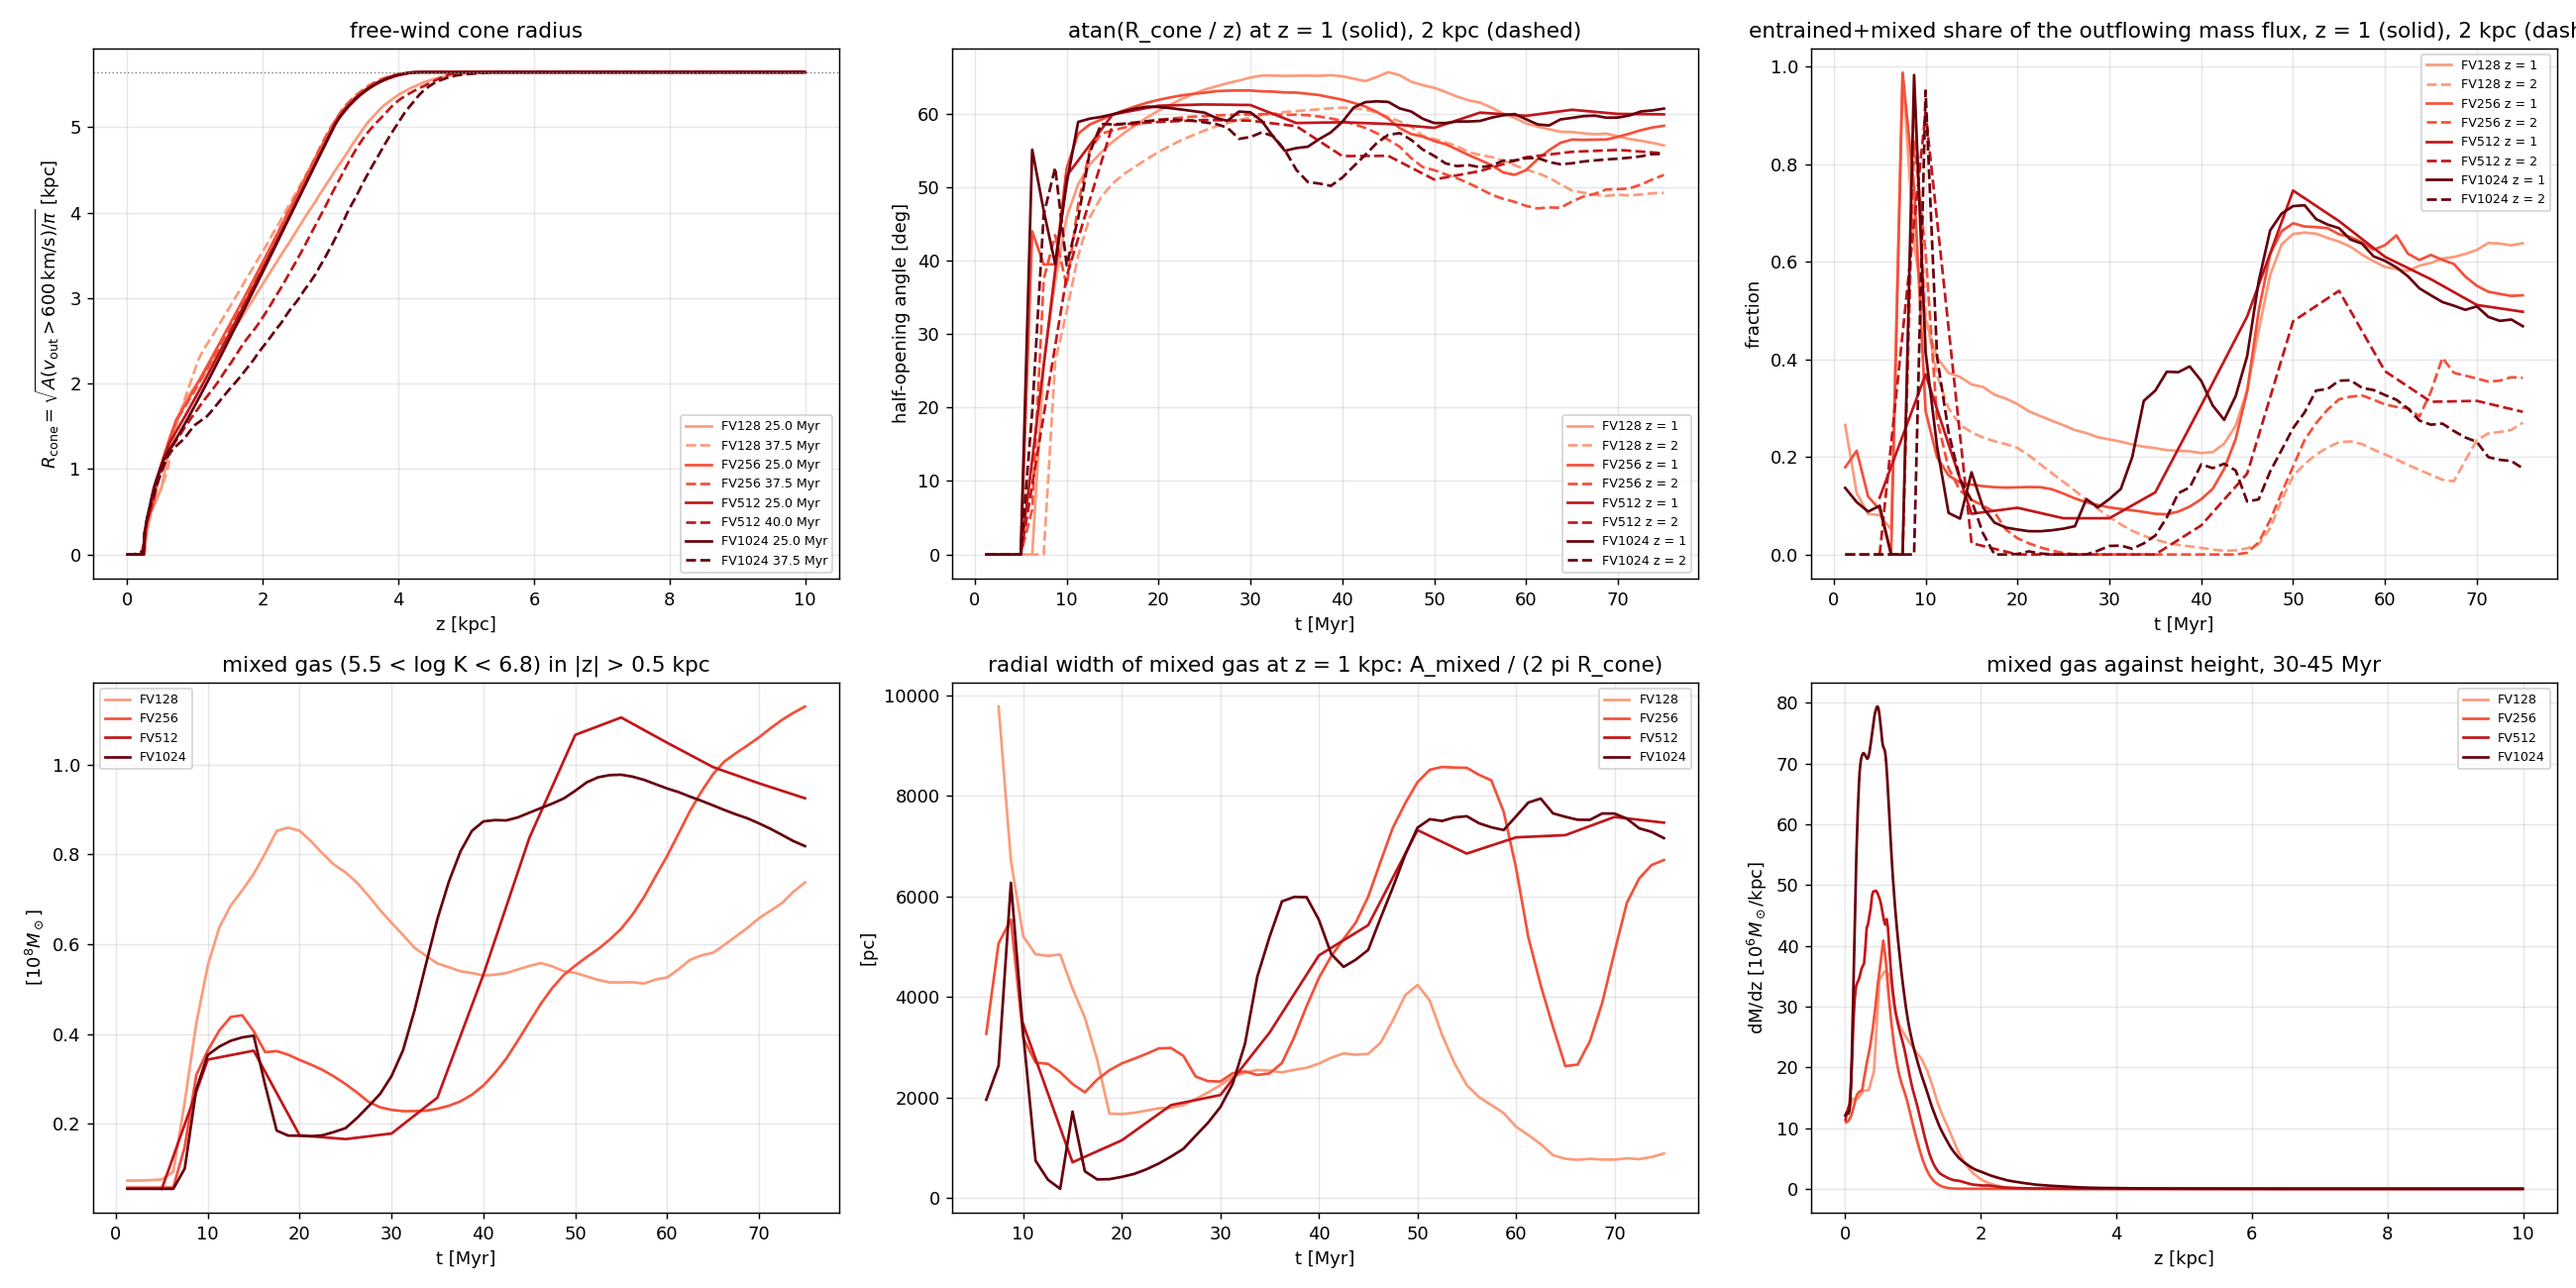
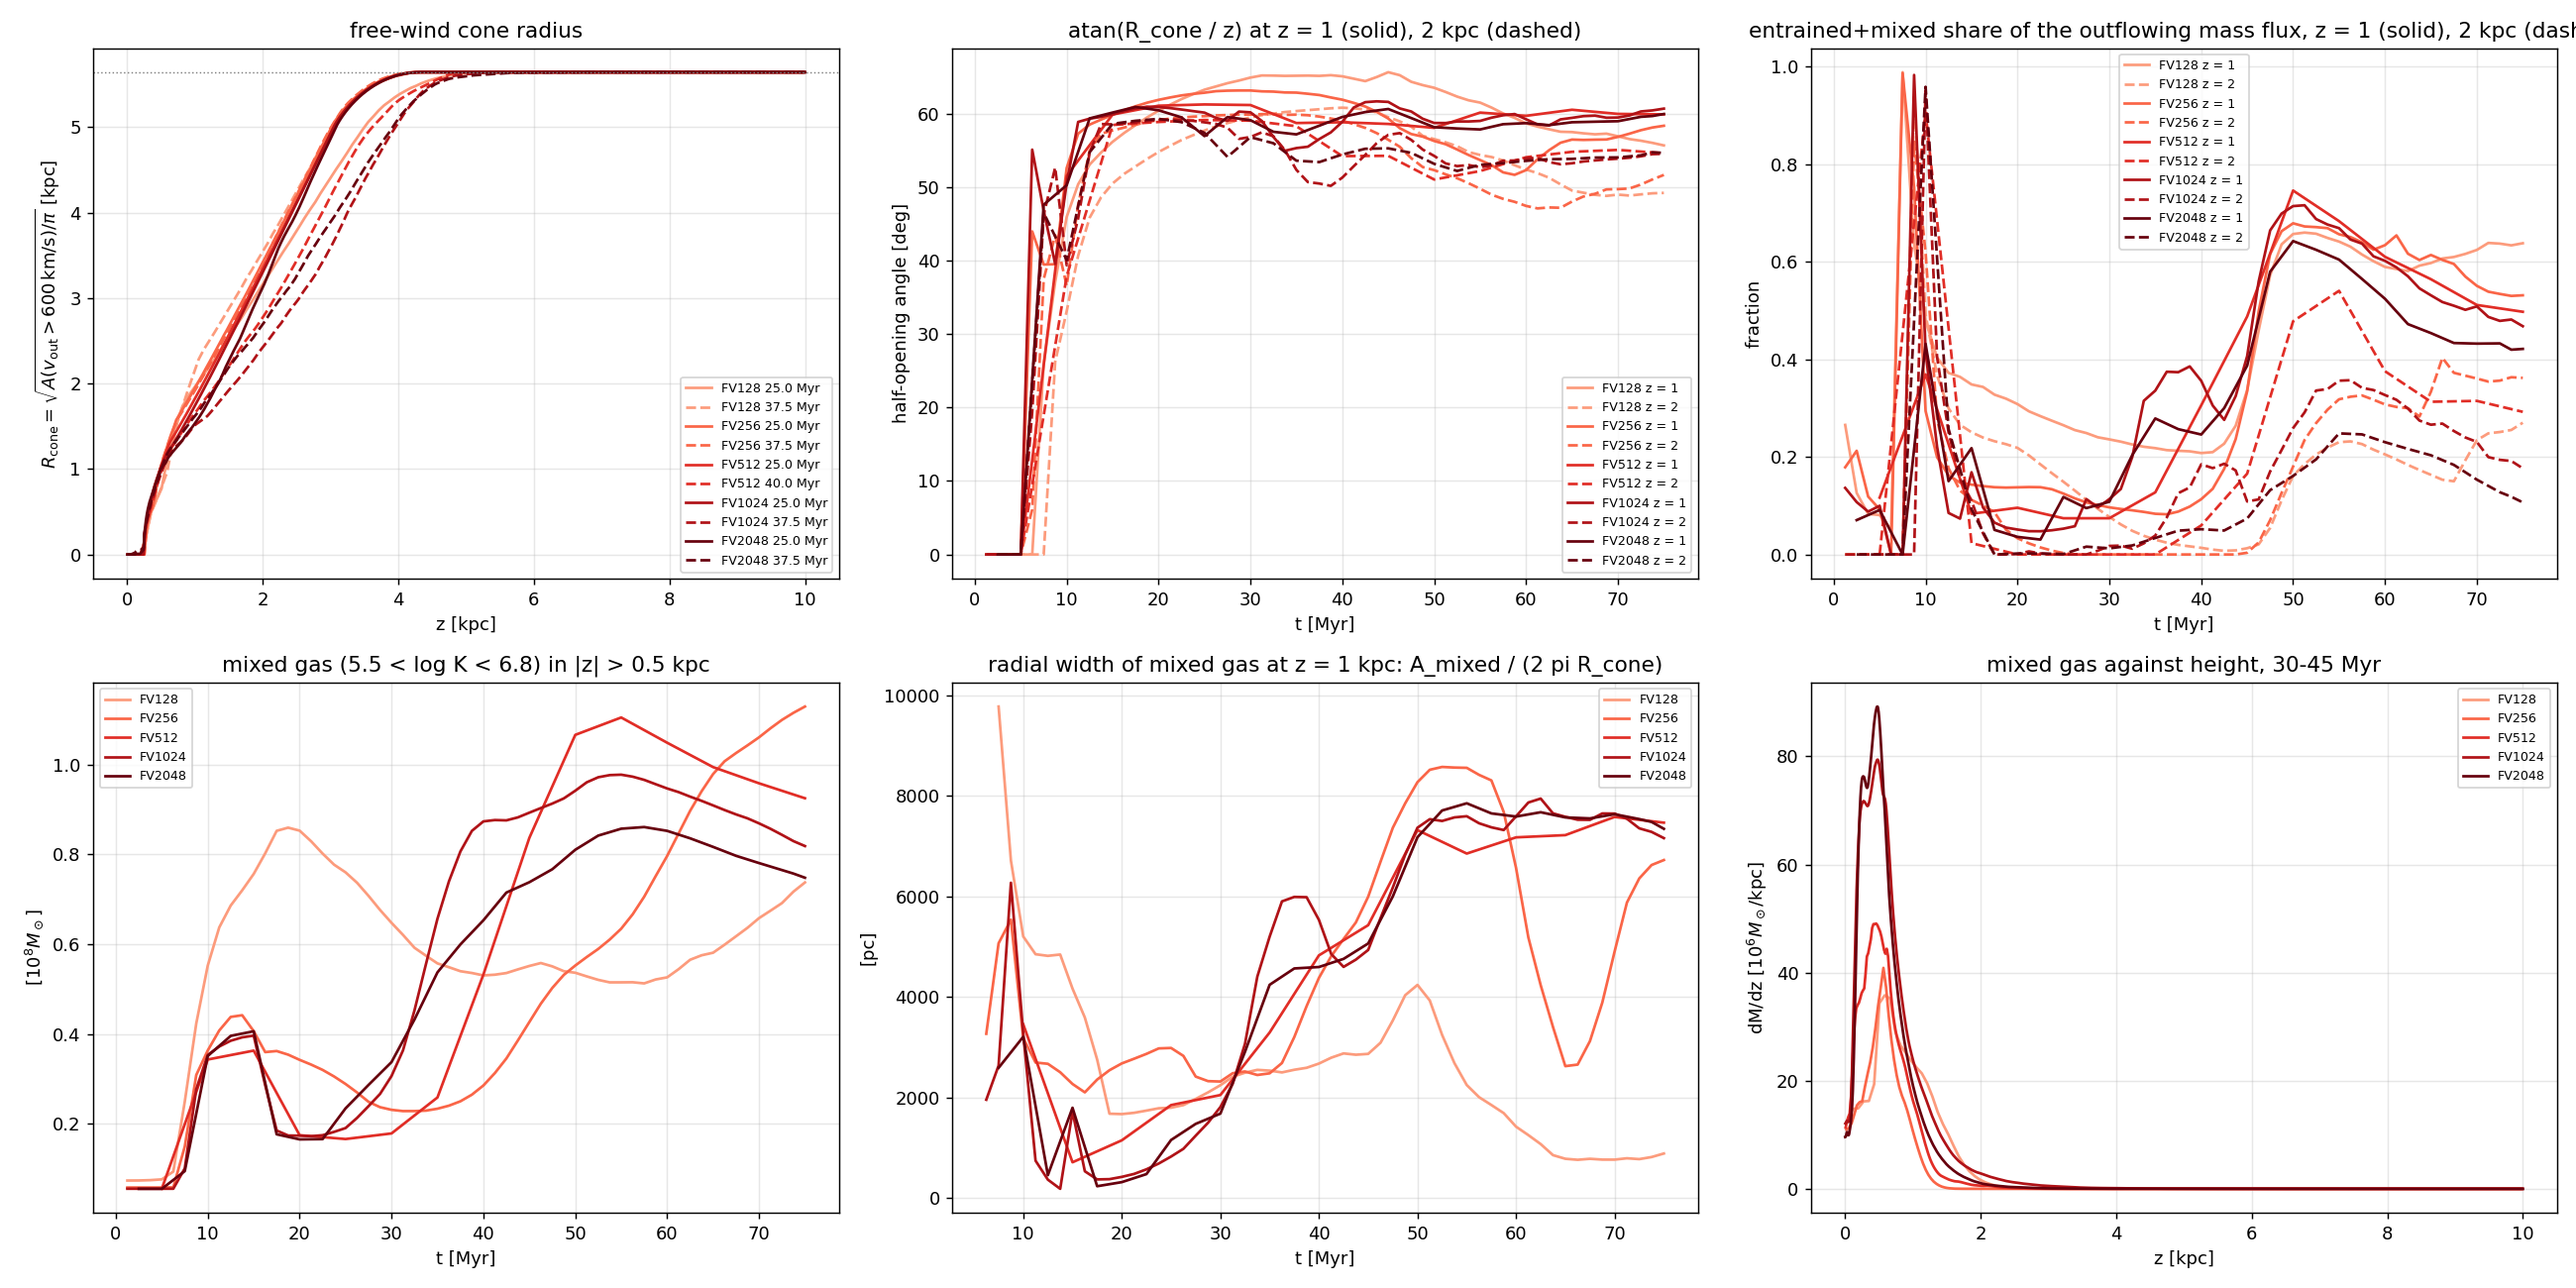
cgols: FV-2048 3D cache in the convergence figures and the FV/FD synthesis
3D cache convergence3d_v3_A2048fv.npz (31 checkpoints, 2.5 Myr cadence,
HoreKa, cgols_convergence_3d.py --parts 8) is in:

- *_fv figures: FV ladder 128-2048 (fluxes, fluxes_T, profiles, phases_axis,
  morphology, rim, emission)
- *_fdfv figures: FV-2048 drawn unpaired (dash-dotted, darker than A1024;
  FV runs beyond the FD list are now supported, the 256-1024 pairs unchanged)
- fvfd_synthesis: FV2048 re-measured (only it), 3D metrics + FV 512-1024-2048
  Richardson rows; fvfd_convergence / fvfd_summary_significance redrawn

3D metrics at 5 Myr cadence, FD-1024 / FV-1024 / FV-2048: mixed outflow 1 kpc
15-40 Myr 2.00 / 3.18 / 2.85 Msun/yr (2.5 Myr cadence: 1.90 / 2.98 / 2.53;
the drop is in the 30-45 Myr rim episode); Edot 5 kpc 15-40 2.94 / 2.92 / 2.91
e42 erg/s; energy out 5-75 4.46 / 4.44 / 4.39 e57 erg; cone z=1 kpc 20-40
60.5 / 59.1 / 58.6 deg, 60-75 56.7 / 59.7 / 59.1; wind outflow 1 kpc 15-40
12.5 / 12.6 / 13.1.

diff --git a/pytests/self_gravity/cgols/cgols_convergence_3d.py b/pytests/self_gravity/cgols/cgols_convergence_3d.py
@@ -36,10 +36,11 @@ and caches them in data/studies/convergence3d<tag>.npz (resumable). With
     python cgols_convergence_3d.py --plot A128=_A128 A256=_A256 A512=_A512 A1024=_A1024
     python cgols_convergence_3d.py --suffix _fv --cmap Reds --plot \
         FV128=_A128fv:cgols_snapshots_diagnostics/A128fv FV256=_A256fv:cgols_snapshots_diagnostics/A256fv \
-        FV512=_A512fvf32 FV1024=_A1024fv
+        FV512=_A512fvf32 FV1024=_A1024fv FV2048=_A2048fv
     python cgols_convergence_3d.py --cmap-start 0.5667 --plot A256=_A256 A512=_A512 A1024=_A1024 --fv \
-        FV256=_A256fv:cgols_snapshots_diagnostics/A256fv FV512=_A512fvf32 FV1024=_A1024fv
-        # merged FD (solid) + FV (dashed), 256-1024 in the 128-1024 colours: *_fdfv.png
+        FV256=_A256fv:cgols_snapshots_diagnostics/A256fv FV512=_A512fvf32 FV1024=_A1024fv FV2048=_A2048fv
+        # merged FD (solid) + FV (dashed), 256-1024 in the 128-1024 colours: *_fdfv.png; an FV run beyond the FD
+        # list (FV2048=_A2048fv appended to --fv) is drawn unpaired, dash-dotted in a darker colour
 
 CPU only; it never imports cgols.py (whose autocvd would wait for a GPU).
 --parts P splits every checkpoint's tiles into P tasks (all measurements are
@@ -479,7 +480,8 @@ FD_NAME, FV_NAME = "FD WENO5", "FV VL2"
 def plot(runs, suffix="", cmap="Blues", fv_runs=None, cmap_start=0.35, name_prefix="a_series"):
     """Compare cached runs; with fv_runs, FD (solid) and FV (dashed) in one figure set.
 
-    fv_runs pairs with runs by position (same resolution, same colour).
+    fv_runs pairs with runs by position (same resolution, same colour); FV runs beyond the FD list are drawn
+    unpaired (dash-dotted, a darker colour, e.g. FV-2048).
     """
     import matplotlib
 
@@ -507,6 +509,11 @@ def plot(runs, suffix="", cmap="Blues", fv_runs=None, cmap_start=0.35, name_pref
     colors = dict(zip(labels, plt.get_cmap(cmap)(np.linspace(cmap_start, 1.0, len(labels)))))
     for (fd_label, _), (fv_label, _) in zip(runs, fv_runs):
         colors[fv_label] = colors[fd_label]
+    # FV runs beyond the FD list (e.g. FV-2048, no FD-2048) are unpaired: dash-dotted, in the ladder's darkest
+    # colour darkened once more per extra run.
+    unpaired = [label for label, _ in fv_runs[len(runs):]]
+    for k, label in enumerate(unpaired, start=1):
+        colors[label] = np.array(plt.get_cmap(cmap)(1.0)) * np.array([0.55**k] * 3 + [1.0])
     fv_labels = {label for label, _ in fv_runs}
     sparse = {label: len(rec) for label, rec in data.items() if len(rec) < SPARSE_SNAPSHOTS}
     fig_dir = os.path.join(SCRIPT_DIR, "figures", "cgols", "comparisons")
@@ -518,7 +525,7 @@ def plot(runs, suffix="", cmap="Blues", fv_runs=None, cmap_start=0.35, name_pref
         """One run's curve: colour by run, dashed for FV when merged, markers if sparse."""
         style = {"color": colors[label], "label": label if legend_label is None else legend_label}
         if merged:
-            style["ls"] = "--" if label in fv_labels else "-"
+            style["ls"] = "-." if label in unpaired else "--" if label in fv_labels else "-"
         if series and label in sparse:
             style.update(ls="none", marker="o", ms=5)
             if legend_label is None:
@@ -533,6 +540,8 @@ def plot(runs, suffix="", cmap="Blues", fv_runs=None, cmap_start=0.35, name_pref
             ax.legend(**kwargs)
             return
         handles = [Line2D([], [], color=colors[label], lw=2.5, label=label) for label, _ in runs]
+        handles += [Line2D([], [], color=colors[label], lw=2.0, ls="-.", label=f"{label} (no FD partner, dash-dot)")
+                    for label in unpaired]
         handles += [
             Line2D([], [], color="0.25", ls="-", label=f"{FD_NAME} (solid)"),
             Line2D([], [], color="0.25", ls="--", label=f"{FV_NAME} (dashed)"),
@@ -666,7 +675,7 @@ def plot(runs, suffix="", cmap="Blues", fv_runs=None, cmap_start=0.35, name_pref
         return mesh
 
     if merged:
-        num_cols = max(len(runs), 3)
+        num_cols = max(len(runs), len(fv_runs), 3)
         fig, axes = plt.subplots(3, num_cols, figsize=(5.0 * num_cols + 1.5, 14), squeeze=False, layout="constrained")
         vmax = max(data[label][s]["hist_nT"].max() for label in data for s in data[label])
         norm = LogNorm(1e3, vmax)

diff --git a/pytests/self_gravity/cgols/cgols_fvfd_synthesis.py b/pytests/self_gravity/cgols/cgols_fvfd_synthesis.py
@@ -19,8 +19,10 @@ Per run (cached in data/studies/fvfd_synthesis_metrics.json, --recompute to rebu
             states;
   3D        entropy-split fluxes (wind-entropy outflow at 1 kpc, mixed outflow at 1 kpc, Edot at 5 kpc), the
             cumulative energy through |z| = 5 kpc and the cone half-opening at z = 1 kpc -- on the common 5 Myr
-            snapshot cadence (FV-512 has every 4th checkpoint) and, for the 1024 pair, at the matched times 30 and
-            60 Myr (FV-1024 has only 4 checkpoints).
+            snapshot cadence (FV-512 has every 4th checkpoint, FD-1024 and FV-2048 every 2nd) and at the matched
+            times 30 and 60 Myr. The 5 Myr subsampling biases the spiky mixed outflow: FV-1024 mixed1_15_40 is
+            2.91 / 2.98 / 3.18 at 1.25 / 2.5 / 5 Myr cadence, FV-2048 2.53 / 2.85 at 2.5 / 5 (ecum5 +2-3%, Edot
+            and cone < 1%); it is the same for every run, so differences stay comparable.
 
 Noise. sigma_traj = sample std over the realisations of one scheme at one N: IC-noise seeds 0-3, the checkpoint-
 segmented vs unsegmented baselines and reruns (fp32 only). The IC noise (1e-3) perturbs less than checkpoint
@@ -55,7 +57,7 @@ ablations (HLLE, fp64, CFL 0.3, PPM) are listed as offsets from their FV baselin
     python cgols_fvfd_synthesis.py --ppm-gpu [--ppm ... as above]
 
     # 2026-11-03: + FV-2048 (RUNS["FV2048"], frames + emission cache from cgols_emission.py --tag _A2048fv --source
-    # frames; no 3D cache yet, so its 3D metrics are absent). RES runs to 2048 (FD-FV rows stop at 1024); the
+    # frames; 3D cache added 2026-11-04 from HoreKa, cgols_convergence_3d.py --parts 8). RES runs to 2048 (FD-FV rows stop at 1024); the
     # self-convergence table adds the FV 512 -> 1024 -> 2048 ladder (the convergence figure's M_inf band uses the
     # finest ladder per scheme). A run is re-measured when its frame count changes or its emission / 3D cache
     # appears; the other cached runs are reused.
@@ -138,8 +140,8 @@ RUNS = {
                   f"{LOGS}/diagnostics/cgols_diag_A512fvhlle.log"),
     "FD1024": ("FD", 1024, "base", "cgols_snapshots_A1024", "_A1024", "_A1024", f"{LOGS}/cgols_diag_A1024.log"),
     "FV1024": ("FV", 1024, "base", "cgols_snapshots_A1024fv", "_A1024fv", "_A1024fv", f"{LOGS}/cgols_diag_A1024fv.log"),
-    # HoreKa job 112293 (32 H200, split (1, 8, 4, 1), code 2ce69fa): frames + emission only; no 3D cache yet (the
-    # 3D metrics are absent, not zero, until data/studies/convergence3d_v3_A2048fv.npz exists)
+    # HoreKa job 112293 (32 H200, split (1, 8, 4, 1), code 2ce69fa): frames + emission; 3D cache
+    # data/studies/convergence3d_v3_A2048fv.npz (31 checkpoints, every 2nd frame + 59, measured on HoreKa)
     "FV2048": ("FV", 2048, "base", "cgols_snapshots_A2048fv", "_A2048fv", "_A2048fv", f"{LOGS}/cgols_diag_A2048fv.log"),
 }
 
